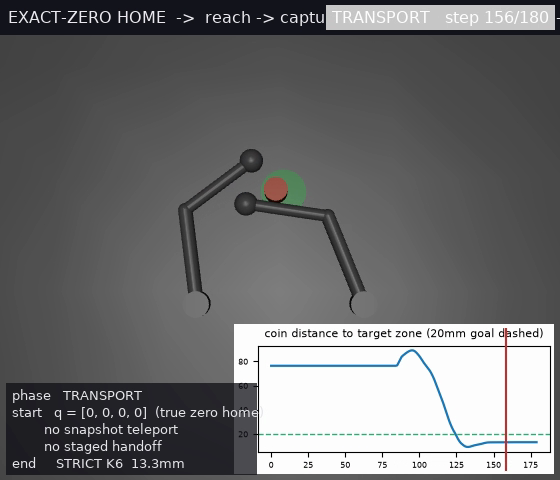
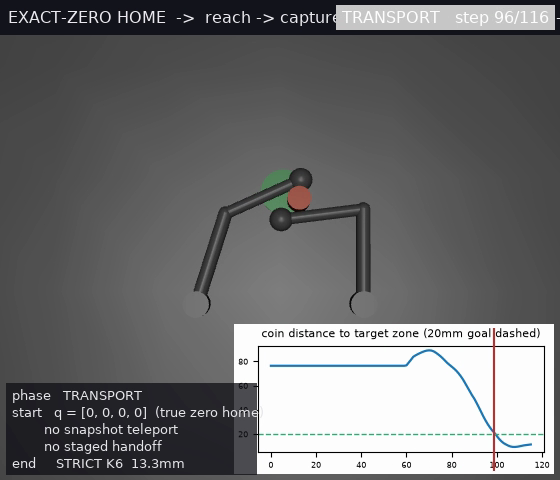
R11.6C-D demo video v3: tighter state transitions (shorter reach hold + trim post-K6 dwell)
User: improve the time delay between states. Two safe cuts:
- reach settle-hold 160 -> 60 steps in the OPENING cfg only (montage keeps the R11.6C bc_context cfg
  untouched). Verified the delivery still reaches strict K6 at every hold in {160,90,60,40}
  (hold=60 -> 13.3mm; even hold=40 -> 11.9mm), so this is a pacing change with no delivery regression.
- _trim_settled: cut each delivery's static post-K6 dwell (keep transport + first zone-entry + 16
  frame settle tail); FAILURES keep the full clip (the r9 undershoot levelling off is the point).

Opening 420->180->116 frames; deliveries 90->~53; r9 failure 90 (full). Total 45s -> 33s -> ~25s.
Verified the opening transport frame still reads (coin grasped + carried to zone, dtz drop prominent).
Physics unchanged; ruff clean. mp4/gif regenerate from the script.

diff --git a/hymeko_rl/experiments/video_r11_6c_composition.py b/hymeko_rl/experiments/video_r11_6c_composition.py
@@ -84,9 +84,9 @@ def deliver_clip(sid: str, smp: Any, fp: dict, Xs: np.ndarray, std: Standardizer
     m = rollout_primitive(snap, clip_theta(theta), CLOSED_LOOP_CFG, frame_hook=film)
     film.close()
     k6 = bool(delivery_success(m, CLOSED_LOOP_CFG))
-    dtz = np.asarray(film.dtz_mm, np.float64)
-    return {"sid": sid, "bank_id": bank_id, "frames": film.frames, "dtz_mm": dtz, "k6": k6,
-            "final_dtz": round(float(m["dtz_end"]) * 1000, 2), "n": len(film.frames)}
+    frames, dtz = _trim_settled(film.frames, film.dtz_mm, k6)     # cut the static post-K6 dwell
+    return {"sid": sid, "bank_id": bank_id, "frames": frames, "dtz_mm": np.asarray(dtz, np.float64), "k6": k6,
+            "final_dtz": round(float(m["dtz_end"]) * 1000, 2), "n": len(frames)}
 
 
 REACH_STRIDE, CAPTURE_STRIDE = 4, 2         # the reach hold + capture are mostly static -> subsample them (keep delivery)
@@ -98,13 +98,24 @@ def _stride(frames: list, dtz: list, k: int) -> "tuple[list, list]":
     return [frames[i] for i in idx], [dtz[i] for i in idx]
 
 
+def _trim_settled(frames: list, dtz: list, k6: bool, tail: int = 16) -> "tuple[list, list]":
+    """Trim a delivery's static post-K6 dwell: keep up to the frame the coin first enters the 20mm zone + a short settle
+    tail. A failure (never enters) keeps the full clip -- the undershoot levelling off is the point."""
+    da = np.asarray(dtz, np.float64)
+    inzone = np.where(da <= CENTER_TOL_MM)[0]
+    if not k6 or len(inzone) == 0:
+        return frames, dtz
+    end = min(len(frames), int(inzone[0]) + tail)
+    return frames[:end], dtz[:end]
+
+
 def opening_clip(theta: np.ndarray) -> list:
     """The full uncut chain from the true zero home: HOME q=[0,0,0,0] -> reach -> capture -> retrieval-theta transport
     -> strict K6. First frame is exactly q=[0,0,0,0]; no snapshot teleport, no staged handoff. The near-static reach/
     capture phases are frame-subsampled so the wall-clock lands on the delivery; the delivery plays at full rate."""
     rig = _rig()
-    cfg = dataclasses.replace(pga.TransitConfig(), substeps=6, hold_steps=160)
-    reach_film = _Filmer(_cam())
+    cfg = dataclasses.replace(pga.TransitConfig(), substeps=6, hold_steps=60)   # shorter settle-hold (verified K6);
+    reach_film = _Filmer(_cam())                                                # cuts the reach dead time at the source
     r = do_reach(rig, cfg, frame_hook=reach_film)
     reach_film.close()
     if r is None:
@@ -119,11 +130,12 @@ def opening_clip(theta: np.ndarray) -> list:
     k6 = bool(delivery_success(m, CLOSED_LOOP_CFG))
     rf, rd = _stride(reach_film.frames, reach_film.dtz_mm, REACH_STRIDE)
     cf, cd = _stride(cap_film.frames, cap_film.dtz_mm, CAPTURE_STRIDE)
+    df, dd = _trim_settled(deliv_film.frames, deliv_film.dtz_mm, k6)      # cut the static post-K6 dwell
     print(f"    reach {len(reach_film.frames)}->{len(rf)} | capture {len(cap_film.frames)}->{len(cf)} | "
-          f"delivery {len(deliv_film.frames)} (full)", flush=True)
-    frames = rf + cf + deliv_film.frames
-    dtz = np.asarray(rd + cd + deliv_film.dtz_mm, np.float64)
-    phases = ["REACH"] * len(rf) + ["CAPTURE"] * len(cf) + ["TRANSPORT"] * len(deliv_film.frames)
+          f"delivery {len(deliv_film.frames)}->{len(df)}", flush=True)
+    frames = rf + cf + df
+    dtz = np.asarray(rd + cd + dd, np.float64)
+    phases = ["REACH"] * len(rf) + ["CAPTURE"] * len(cf) + ["TRANSPORT"] * len(df)
     end = f"STRICT K6  {m['dtz_end'] * 1000:.1f}mm" if k6 else f"{m['dtz_end'] * 1000:.0f}mm"
     n = len(frames)
 
